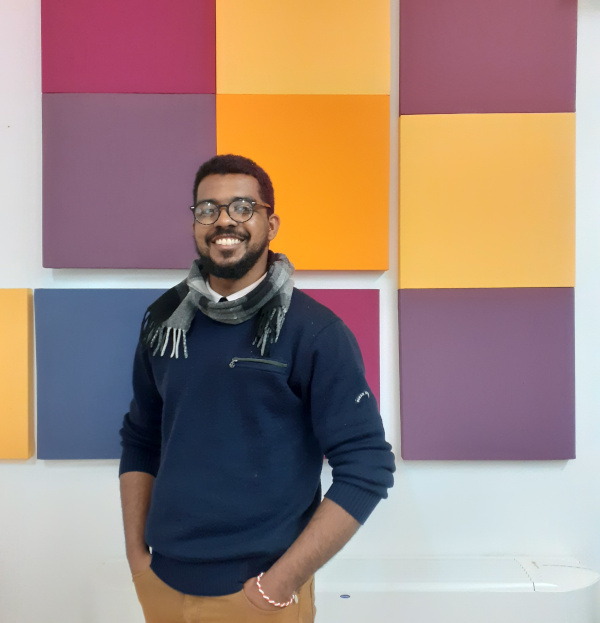
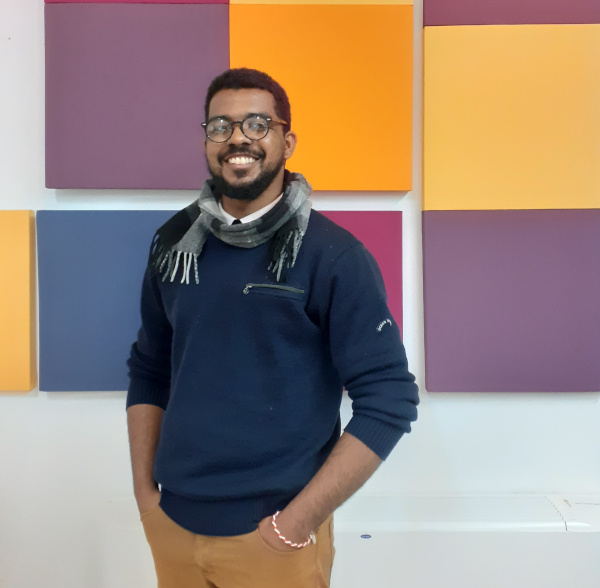
edição da foto de perfil na página principal.

diff --git a/index.html b/index.html
@@ -32,7 +32,7 @@
             </table>
         </div>
         <div class="foto-perfil">
-            <img src="Fotos-página-inicial/para o site/eu-com-quadrados-coloridos-600x623px.jpg" alt="Cristiano Epifânio" style="border-radius: 40%;">
+            <img src="Fotos-página-inicial/para o site/eu-com-quadrados-coloridos-600x623px.jpg" alt="Cristiano Epifânio">
         </div>
     </div>
     <h2>Minhas redes sociais</h2>

diff --git a/mainstyle.css b/mainstyle.css
@@ -50,11 +50,12 @@ td:hover {
     gap: 20px;
     border-radius: 3%;
 }
-.foto-perfil {
+.foto-perfil img {
     display: flex;
     flex-direction: row;
     justify-content: flex-end;
     margin: 20px;
+    border-radius: 50%;
 
 }
 .self-introdution {
